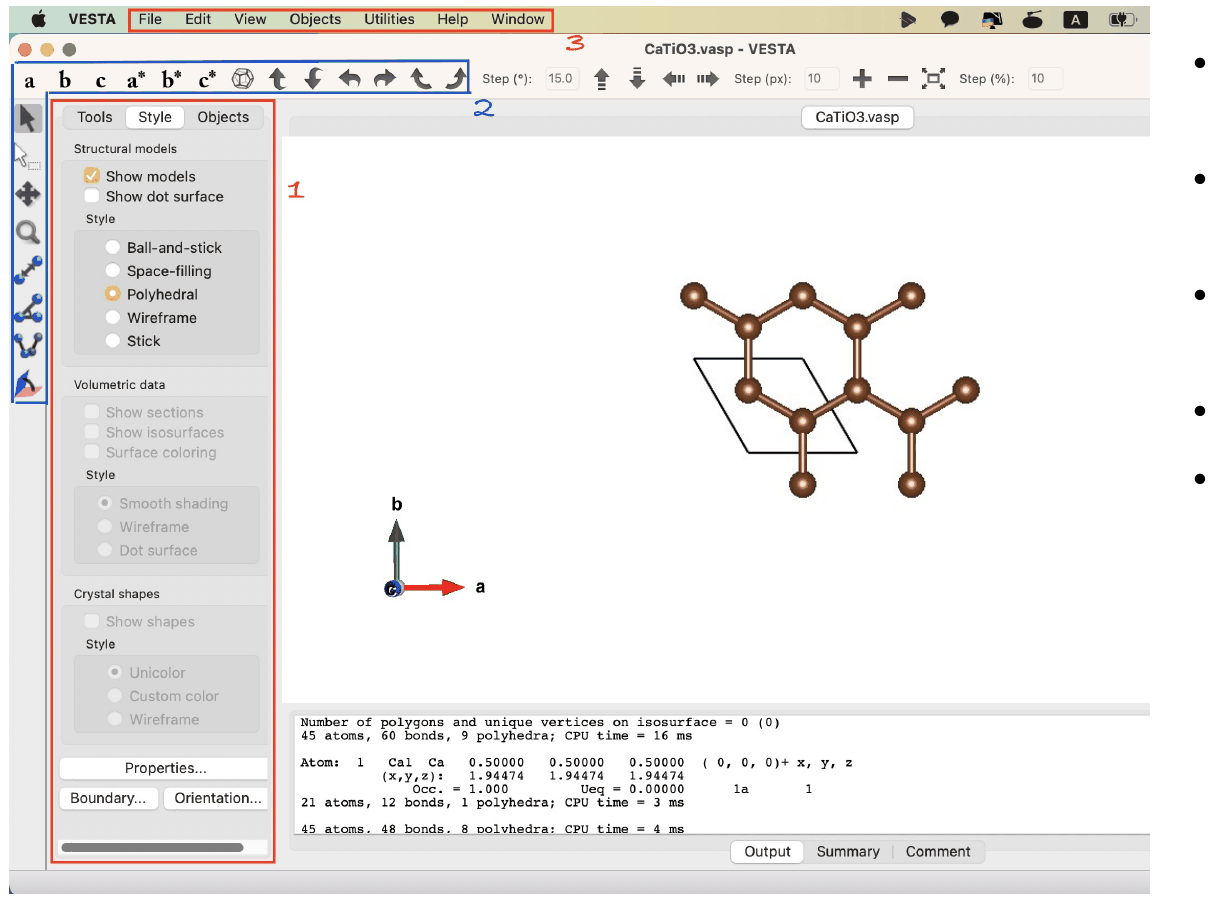
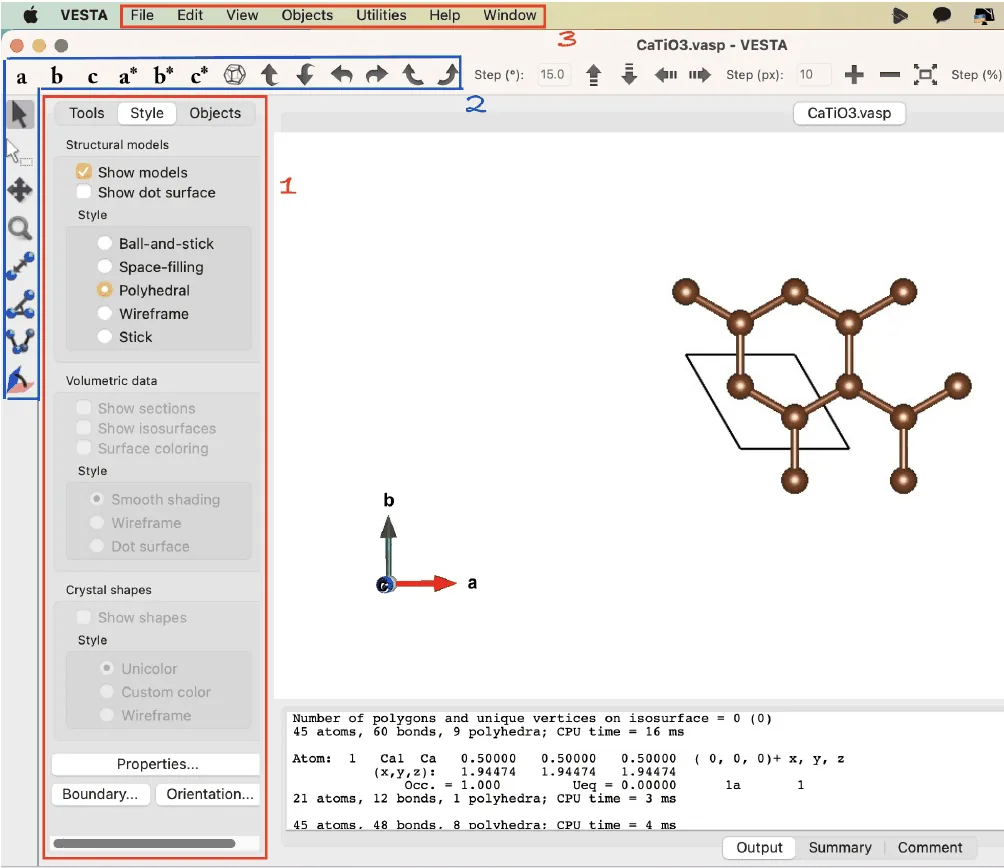
Relocate files.

diff --git a/content/en/docs/qe/appendix/structure-visualization.md b/content/en/docs/qe/appendix/structure-visualization.md
@@ -61,7 +61,16 @@ Then launch VESTA and drag the `C.vasp` file onto the empty VESTA window.
     style="width: 100%; max-width: 650px;">
 </p>
 
+
+<p>
+
 ### 2.3 Adjust the Displayed Unit-Cell Range
+
+
+<img
+  src="/images/tutorials/vesta/04_vesta_interface_boundary_bonds.webp"
+  alt="VESTA interface showing boundary, bond, and structural model controls"
+  style="width: 80%; max-width: 550px; height: auto; float: left; margin: 0 24px 12px 0;">
 
 Open the following menu located at the bottom left of Box 1:
 
@@ -78,18 +87,13 @@ y(max): 2
 
 This changes **only the range displayed on the screen**. It does not modify the actual lattice vectors or create a physical supercell.
 
-<p align="center">
-  <img
-    src="/images/tutorials/vesta/04_vesta_interface_boundary_bonds.webp"
-    alt="VESTA interface showing the Style panel, view toolbar, and menu bar"
-    style="width: 100%; max-width: 650px;">
-</p>
-
 The numbered labels in the figure indicate the VESTA interface areas used in this tutorial.
 
-- **Box 1: Style panel:** Adjust the displayed range under **Boundary...**
-- **Box 2: View/orientation toolbar:** Use the lattice-axis and rotation tools to inspect the structure from different directions.
-- **Box 3: Menu bar:** Define or modify bonds under **Edit -> Bonds**.
+- **Box 1:** [Style panel] Adjust the displayed range under **Boundary...**
+- **Box 2:** [View/orientation toolbar] Use the lattice-axis and rotation tools to inspect the structure from different directions.
+- **Box 3:** [Menu bar] Define or modify bonds under **[Edit] -> [Bonds]**.
+
+</p>
 
 ### 2.4 Define C-C Bonds
 
@@ -116,7 +120,14 @@ Choose a bond-length range that includes the nearest-neighbor C-C distance, then
 
 Following the same procedure as above, search for **CaTiO3** on Materials Project. Download the POSCAR file and open it in VESTA.
 
+<p>
+
 ### 3.2 Use the Polyhedral View
+
+<img
+  src="/images/tutorials/vesta/05_catio3_polyhedral_view.webp"
+  alt="CaTiO3 structure in polyhedral representation with the VESTA interface"
+  style="width: 85%; max-width: 600px; height: auto; float: left; margin: 0 24px 12px 0;">
 
 Select the following style:
 
@@ -124,15 +135,26 @@ Select the following style:
 Style -> Polyhedral
 ```
 
-![CaTiO3 structure in polyhedral representation with the VESTA interface](/images/tutorials/vesta/05_catio3_polyhedral_view.webp)
-
 The same numbered labels are used here.
 
-- **Box 1: Style panel:** Select **Polyhedral**.
-- **Box 2: View/orientation toolbar:** Rotate the structure or align it along a specific lattice direction.
-- **Box 3: Menu bar:** Open **[Edit] -> [Bonds]** when defining the coordination environment.
+- **Box 1:** [Style panel] Select **Polyhedral**.
+- **Box 2:** [View/orientation toolbar] Rotate the structure or align it along a specific lattice direction.
+- **Box 3:** [Menu bar Open] **[Edit] -> [Bonds]** when defining the coordination environment.
+
+
+---
+
+</p>
+
+
+<p>
 
 ### 3.3 Define Ti-O Bonds
+
+  <img
+    src="/images/tutorials/vesta/06_catio3_bond_settings.webp"
+    alt="Ti-O bond settings for constructing oxygen polyhedra around Ti"
+    style="width: 80%; max-width: 550px; height: auto; float: left; margin: 0 24px 12px 0;">
 
 Open:
 
@@ -152,14 +174,11 @@ Set the maximum bond length so that the nearest O atoms around Ti are included, 
 ```text
 Show polyhedra
 ```
-<p align="center">
-  <img
-    src="/images/tutorials/vesta/06_catio3_bond_settings.webp"
-    alt="Ti-O bond settings for constructing oxygen polyhedra around Ti"
-    style="width: 100%; max-width: 600px;">
-</p>
 
 ---
+
+</p>
+
 
 ## 4. Reading a VASP Structure File
 
@@ -183,6 +202,7 @@ The number of coordinate lines, from Line 9 to the end of the file, must match t
     alt="Main components of a graphene POSCAR file"
     style="width: 100%; max-width: 650px;">
 </p>
+
 ### Direct Coordinates
 
 In `Direct` format, atomic positions are expressed as fractional coordinates with respect to the lattice vectors in Lines 3-5.
@@ -203,12 +223,11 @@ $$
 
 ![Mapping POSCAR atomic coordinates to atom entries in VESTA](/images/tutorials/vesta/08_poscar_to_vesta_mapping.webp)
 
-
 This will come in handy when you want to customize the structure.
 
 - **Blue:** The number of coordinate rows in the POSCAR must match the atom count given above.
-- **Red 1: Objects button:** This displays a list of the atomic coordinates from the text file, as shown above.
-- **Red 2: Atom list:** The first coordinate line in the POSCAR corresponds to the first atom entry in VESTA, which is **C1** in this example.
+- **Red 1:** [Objects button] This displays a list of the atomic coordinates from the text file, as shown above.
+- **Red 2:** [Atom list] The first coordinate line in the POSCAR corresponds to the first atom entry in VESTA, which is **C1** in this example.
 
 
 ---

diff --git a/content/en/docs/qe/appendix/structure-customization.md b/content/en/docs/qe/appendix/structure-customization.md
@@ -1,6 +1,6 @@
 ---
 title: "B. Customizing Atomic Structures"
-date: 2026-09-14
+date: 2026-09-30
 lastmod: 2026-10-01
 summary: "A practical tutorial on modifying existing crystal structures in VESTA, including coordinate transformations and atomic translations for creating configurations such as AA and AB stacking."
 weight: 9020
@@ -19,22 +19,32 @@ Structures needed for calculations are not always available in the exact form we
 As a simple example, we will start from a graphene unit cell, create bilayer graphene, and adjust the relative position of one layer to construct **AA and AB stacking**.
 The goal of this tutorial is not simply to copy a particular set of coordinates, but to learn
 
-> **how to understand an existing structure, calculate the required translation, and apply it to create the structure you want**
+> how to understand an existing structure, calculate the required translation, and apply it to create the structure **you want**
 
 ---
 
 ## Hexagonal Lattice Worksheet
-
+<p>
+<img src="https://raw.githubusercontent.com/suecreamm/materials/main/01graphene/hexagonal_lattice.jpg"
+     alt="Hexagonal lattice worksheet"
+     style="width: 40%; max-width: 400px; min-width: 160px; height: auto; float: left; margin: 0 24px 12px 0;">
+     
 When calculating coordinates or translation vectors for hexagonal structures, I often use the worksheet below. I did not create this figure specifically for this tutorial. It is a reference I prepared and uploaded to my repository because I repeatedly use it when working with hexagonal cells.
 [**Hexagonal lattice worksheet**](https://github.com/suecreamm/materials/blob/main/01graphene/hexagonal_lattice.jpg)
-![Hexagonal lattice worksheet](https://raw.githubusercontent.com/suecreamm/materials/main/01graphene/hexagonal_lattice.jpg)
+</p>
 
 ---
 
 ## 1. The $1:\sqrt{3}:2$ Triangle
 
+<p>
+  <img src="/images/tutorials/appendix/1-2-root3_right_triangle.webp"
+     alt="30°–60°–90° right triangle with the 1-sqrt(3)-2 side ratio"
+     style="width: 40%; max-width: 250px; min-width: 160px; height: auto; float: left; margin: 0 24px 12px 0;">
+</p>
+
 A hexagonal lattice can be divided into equilateral triangles. Dividing an equilateral triangle in half gives a $30^\circ$-$60^\circ$-$90^\circ$ right triangle, whose side lengths have the ratio $1:\sqrt{3}:2$. This is a simple geometric relationship, but it is the one I use most often when working with the worksheet.
-![30°–60°–90° right triangle with the 1-sqrt(3)-2 side ratio](../1-2-root3_right_triangle.webp)
+
 This relationship is repeatedly useful when decomposing distances in a hexagonal structure into Cartesian $x$ and $y$ components.
 For graphene, the lattice constant $a$ and the nearest-neighbor C–C distance $d_{\mathrm{C-C}}$ are related by
 
@@ -131,12 +141,11 @@ Therefore, no in-plane translation is required, and the lattice vectors do not n
 The AA-stacked structure can be constructed as follows.
 
 ```text
-C
+AAstacking
 1.0
         2.4410462379         0.0000000000         0.0000000000
        -1.2205234005         2.1140078914         0.0000000000
         0.0000000000         0.0000000000        20.0000000000
-
 C
 4
 Direct
@@ -282,12 +291,11 @@ In other words, the lower layer remains unchanged, while the same in-plane trans
 The final AB-stacked structure is as follows.
 
 ```text
-C
+ABstacking
 1.0
         2.4410462379         0.0000000000         0.0000000000
        -1.2205234005         2.1140078914         0.0000000000
         0.0000000000         0.0000000000        20.0000000000
-
 C
 4
 Direct
@@ -328,6 +336,12 @@ The lattice vectors remain identical; only the relative position of the upper la
 ---
 
 ## 9. Check the Structure in VESTA
+
+<p>
+  <img src="/images/tutorials/appendix/AA-AB-stacking.webp"
+       alt="AA and AB stacking in bilayer graphene"
+       style="width: 40%; max-width: 250px; min-width: 160px; height: auto; float: left; margin: 0 24px 12px 0;">
+</p>
 
 Open the completed AA and AB files in VESTA and inspect the structures.
 When AA stacking is viewed along the $c$ axis, the carbon atoms in the upper and lower layers should overlap.

diff --git a/content/en/docs/qe/example/graphene-pdos.md b/content/en/docs/qe/example/graphene-pdos.md
@@ -1,6 +1,6 @@
 ---
 title: 3. Graphene Projected Density of States
-date: 2026-09-30
+date: 2026-09-29
 weight: 70
 commentable: true
 sidebar:
